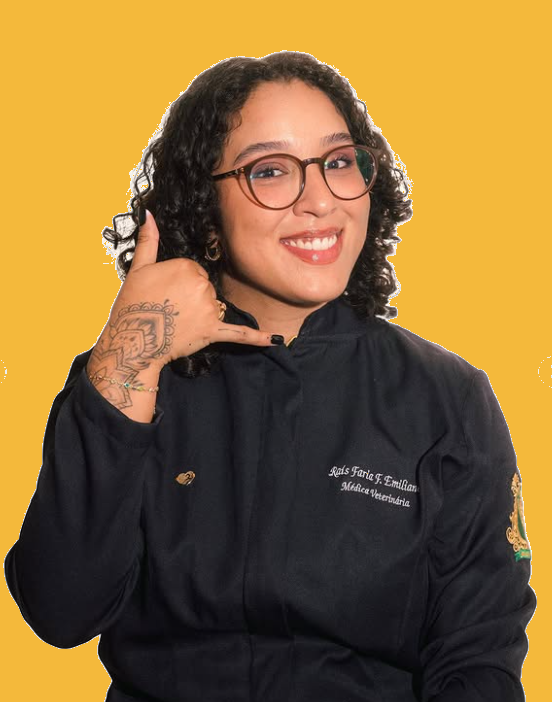
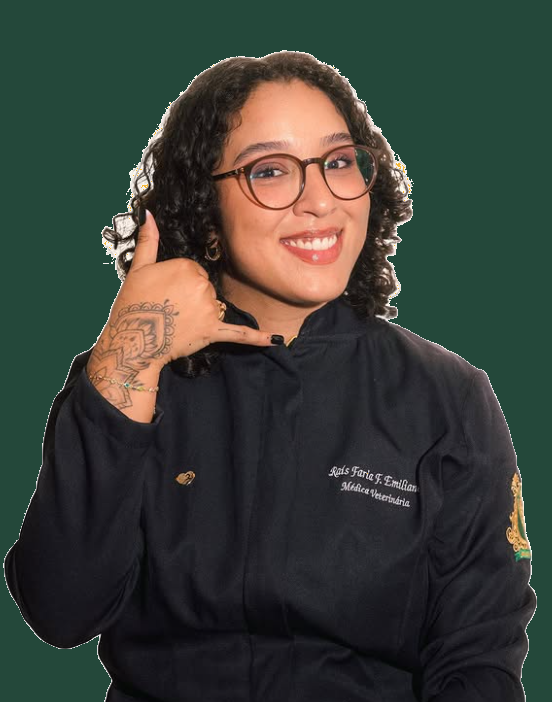
fix: new style and new vet image

diff --git a/src/pages/Services/style.scss b/src/pages/Services/style.scss
@@ -1,11 +1,13 @@
 .services-container {
   display: flex;
   flex-direction: column;
-  align-items: center; // Center content
+  align-items: center;
   justify-content: center;
   height: auto;
   padding: 20px;
   gap: 20px;
+  background-color: #24483a; // Dark green background
+  color: white; // White text for the entire container
 }
 
 /* Header Section */
@@ -16,6 +18,7 @@
   .logo-header {
     width: 120px;
     margin-bottom: 10px;
+    filter: brightness(0) invert(1); // Make logos white if needed
   }
 
   h2 {
@@ -26,7 +29,7 @@
 
   p {
     font-size: 16px;
-    color: #555;
+    color: #d4d4d4; // Light gray text for description
   }
 }
 
@@ -39,17 +42,31 @@
 
   // Mobile responsiveness
   @media (max-width: 768px) {
-    flex-direction: column; // Stack vertically
+    flex-direction: column;
     align-items: center;
   }
 
   // Hover Effect for Cards
   .MuiCard-root {
-    transition: transform 0.3s ease, box-shadow 0.3s ease; // Smooth scaling and shadow transition
+    transition: transform 0.3s ease, box-shadow 0.3s ease;
+    background-color: #1e3a2d; // Slightly darker green for the cards
+    color: white;
 
     &:hover {
-      transform: scale(1.05); // Slight scaling
-      box-shadow: 0 8px 20px rgba(0, 0, 0, 0.2); // Elevated shadow
+      transform: scale(1.05);
+      box-shadow: 0 8px 20px rgba(0, 0, 0, 0.5); // Darker shadow
+    }
+
+    .MuiCardContent-root {
+      color: white; // Ensure text in the card is white
+    }
+
+    .MuiTypography-root {
+      color: white; // Ensure headings inside cards are white
+    }
+
+    .MuiSvgIcon-root {
+      color: #f4b93b; // Golden accent for icons
     }
   }
 }
@@ -59,11 +76,11 @@
   margin-top: 20px;
 
   button {
-    background-color: #24483a; // Brand primary color
-    color: white;
+    background-color: #f4b93b; // Golden CTA button
+    color: #24483a; // Dark green text
 
     &:hover {
-      background-color: #1e3a2d; // Darker shade for hover
+      background-color: #dca32d; // Darker golden hover effect
     }
   }
 }

diff --git a/src/theme/theme.tsx b/src/theme/theme.tsx
@@ -4,10 +4,14 @@ import { responsiveFontSizes } from "@mui/material/styles";
 let theme = createTheme({
   palette: {
     primary: {
-      main: "#24483a",
+      main: "#24483a", // Dark green as primary color
     },
     background: {
-      default: "#f4b93b",
+      default: "#24483a", // Dark green background
+    },
+    text: {
+      primary: "#ffffff", // White text by default
+      secondary: "#d4d4d4", // Light gray text for descriptions
     },
   },
   typography: {
@@ -20,11 +24,26 @@ let theme = createTheme({
           margin: 0,
           padding: 0,
           height: "100%",
-          backgroundColor: "#f4b93b",
+          backgroundColor: "#24483a", // Dark green body background
+          color: "#ffffff", // White text by default
           overflow: "hidden",
         },
         html: {
           height: "100%",
+        },
+        a: {
+          color: "#f4b93b", // Gold color for links
+        },
+      },
+    },
+    MuiButton: {
+      styleOverrides: {
+        root: {
+          backgroundColor: "#f4b93b", // Gold button
+          color: "#24483a", // Dark green text on buttons
+          "&:hover": {
+            backgroundColor: "", // Darker gold on hover
+          },
         },
       },
     },

diff --git a/src/pages/Services/Services.tsx b/src/pages/Services/Services.tsx
@@ -39,7 +39,6 @@ const Services = () => {
         </p>
       </div>
 
-      {/* Cards Section */}
       <div className="services-cards">
         {services.map((service, index) => (
           <ServiceCard
@@ -52,15 +51,13 @@ const Services = () => {
         ))}
       </div>
 
-      {/* Call-to-Action Section */}
       <div className="cta-container">
         <Button
           variant="contained"
-          color="primary"
           size="large"
           href="https://wa.me/+553199381294"
           target="_blank"
-          sx={{ marginTop: 1 }}
+          sx={{ marginTop: 1, background: "#9af191" }}
         >
           Agende uma Consulta
         </Button>

diff --git a/src/pages/Blog/style.scss b/src/pages/Blog/style.scss
@@ -4,8 +4,9 @@ body.blog-scroll {
 
 .blog-container {
   padding: 20px;
-  background-color: #f4b93b;
   text-align: center;
+  background-color: #24483a; // Dark green background
+  color: white; // White text for the entire container
 
   .title {
     font-size: 24px;
@@ -23,7 +24,7 @@ body.blog-scroll {
     .instagram-card {
       padding: 10px;
       border-radius: 10px;
-      background-color: #24483a;
+      background-color: #edebdf;
       box-shadow: 0 4px 6px rgba(0, 0, 0, 0.1);
       transition: transform 0.3s ease, box-shadow 0.3s ease;
 

diff --git a/src/components/Loading/style.scss b/src/components/Loading/style.scss
@@ -3,13 +3,13 @@
   align-items: center;
   justify-content: center;
   height: 100vh;
-  background-color: #f4b93b; // Background color similar to landing page
+  background-color: #24483a;
 }
 
 .loading-image {
-  width: 150px; // Adjust size as needed
+  width: 150px;
   height: 150px;
-  animation: spin 2s infinite linear; // Optional animation for spinning effect
+  animation: spin 2s infinite linear;
 }
 
 @keyframes spin {

diff --git a/src/pages/Home/Home.tsx b/src/pages/Home/Home.tsx
@@ -17,7 +17,7 @@ const Home: React.FC = () => {
       <div className="content">
         <div className="left-section">
           <img
-            src="/src/assets/images/vet.png"
+            src="/src/assets/images/vet1.png"
             alt="Veterinária"
             className="vet-image"
           />

diff --git a/src/components/Socials/Whatsapp/WhatsappButton.tsx b/src/components/Socials/Whatsapp/WhatsappButton.tsx
@@ -16,6 +16,7 @@ export default function WhatsappButton() {
       tabIndex={-1}
       startIcon={<WhatsAppIcon />}
       onClick={handleClick}
+      sx={{ background: "#9af191" }}
     >
       Whatsapp
     </Button>

diff --git a/src/pages/Home/Home.scss b/src/pages/Home/Home.scss
@@ -5,6 +5,8 @@
   justify-content: center;
   padding: 20px;
   box-sizing: border-box;
+  background-color: #24483a; // Dark green background
+  color: white; // White text for the entire container
 }
 
 .content {
